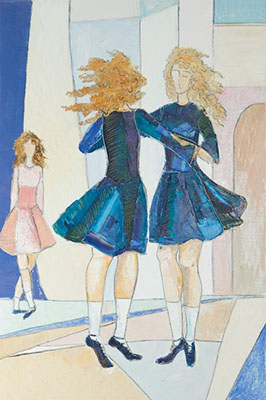
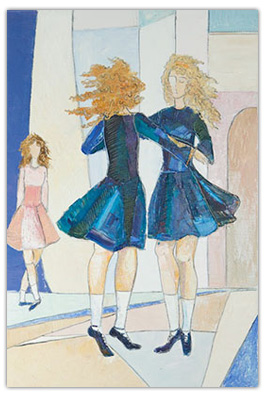
update mail & poster

diff --git a/news/duesseldorf/invitation/mail.html b/news/duesseldorf/invitation/mail.html
@@ -1,7 +1,7 @@
 <html xmlns="http://www.w3.org/1999/xhtml">
 <head>
 <meta http-equiv="Content-Type" content="text/html; charset=utf-8" />
-<title>Untitled Document</title>
+<title>MEINLADUNG ZUR AUSSTELLUNG von ZHANNA DRYHA</title>
 <style type="text/css">
 </style>
 </head>
@@ -11,13 +11,13 @@
 <tr>
 	<td>
 		<div style="@import url(https://fonts.googleapis.com/css?family=Lato:300italic,700italic,300,700); font: 14px/1.5 Lato, 'Helvetica Neue', Helvetica, Arial, sans-serif; color:#333; font-weight:300; -webkit-font-smoothing: antialiased; line-height:1.1; font-size:22px; margin:50px 50px 0 50px;">MEINLADUNG ZUR AUSSTELLUNG</div>
-		<div style="@import url(https://fonts.googleapis.com/css?family=Lato:300italic,700italic,300,700); font: 14px/1.5 Lato, 'Helvetica Neue', Helvetica, Arial, sans-serif; color:#333; font-weight:300; -webkit-font-smoothing: antialiased; line-height:1.1; font-size:22px; margin:20px 50px 20px 50px;">von ZHANNA DRYHA</div>
+		<div style="@import url(https://fonts.googleapis.com/css?family=Lato:300italic,700italic,300,700); font: 14px/1.5 Lato, 'Helvetica Neue', Helvetica, Arial, sans-serif; color:#333; font-weight:300; -webkit-font-smoothing: antialiased; line-height:1.1; font-size:22px; margin:20px 50px 20px 50px;">von <a href="http://dryha.com" target="_blank" style="color:#39c; font-weight:400; text-decoration:none;" >ZHANNA DRYHA</a></div>
 		<div style="@import url(https://fonts.googleapis.com/css?family=Lato:300italic,700italic,300,700); font: 14px/1.5 Lato, 'Helvetica Neue', Helvetica, Arial, sans-serif; color:#333; font-weight:300; -webkit-font-smoothing: antialiased; line-height:1.1; font-size:22px; margin:20px 50px 20px 50px;">Mitglied des ukrainischen Künstlervereins</div>
-		<div style="@import url(https://fonts.googleapis.com/css?family=Lato:300italic,700italic,300,700); font: 14px/1.5 Lato, 'Helvetica Neue', Helvetica, Arial, sans-serif; color:#333; font-weight:300; -webkit-font-smoothing: antialiased; line-height:1.1; font-size:14px; margin:20px 50px 20px 50px;">Gezeigt wird Malerei und Graphik der modernen ukrainischen Künstlerin Zhanna Dryha im Rahmen der Europa- und Weltmeisterschaften im Irischen Tanz (19. – 21. April 2014, Düsseldorf).</div>
+		<div style="@import url(https://fonts.googleapis.com/css?family=Lato:300italic,700italic,300,700); font: 14px/1.5 Lato, 'Helvetica Neue', Helvetica, Arial, sans-serif; color:#333; font-weight:300; -webkit-font-smoothing: antialiased; line-height:1.1; font-size:14px; margin:20px 50px 20px 50px;">Gezeigt wird Malerei und Graphik der modernen ukrainischen Künstlerin Zhanna Dryha im <a target="_blank" style="color:#39c; font-weight:400; text-decoration:none;" href="http://www.worldirishdance.com/index.php?option=com_content&view=article&id=135&Itemid=150&lang=de" >Rahmen der Europa- und Weltmeisterschaften im Irischen Tanz</a> (19. – 21. April 2014, Düsseldorf).</div>
 		<div style="@import url(https://fonts.googleapis.com/css?family=Lato:300italic,700italic,300,700); font: 14px/1.5 Lato, 'Helvetica Neue', Helvetica, Arial, sans-serif; color:#333; font-weight:300; -webkit-font-smoothing: antialiased; line-height:1.1; font-size:14px; margin:20px 50px 20px 50px;">Thematische Schwerpunkte: die Welt der irischen Tanzkultur & die Ukraine aktuell</div>
 		<div style="@import url(https://fonts.googleapis.com/css?family=Lato:300italic,700italic,300,700); font: 14px/1.5 Lato, 'Helvetica Neue', Helvetica, Arial, sans-serif; color:#333; font-weight:300; -webkit-font-smoothing: antialiased; line-height:1.1; font-size:14px; margin:20px 50px 50px 50px;">TMaritim Hotel Düsseldorf, Maritim Platz 1, 40474 Düsseldorf</div>
 	</td>
-	<td width="400px"><img style="margin:10px; box-shadow:0px 0px 5px black;" src="images/poster.jpg" width="266" height="400" border="0" alt=""/></td> 
+	<td width="400px"><img style="margin:10px;" src="http://dryha.com/news/duesseldorf/invitation/images/poster.jpg" width="266" height="400" border="0" alt=""/></td> 
 </tr>
 </table>
 </body>
